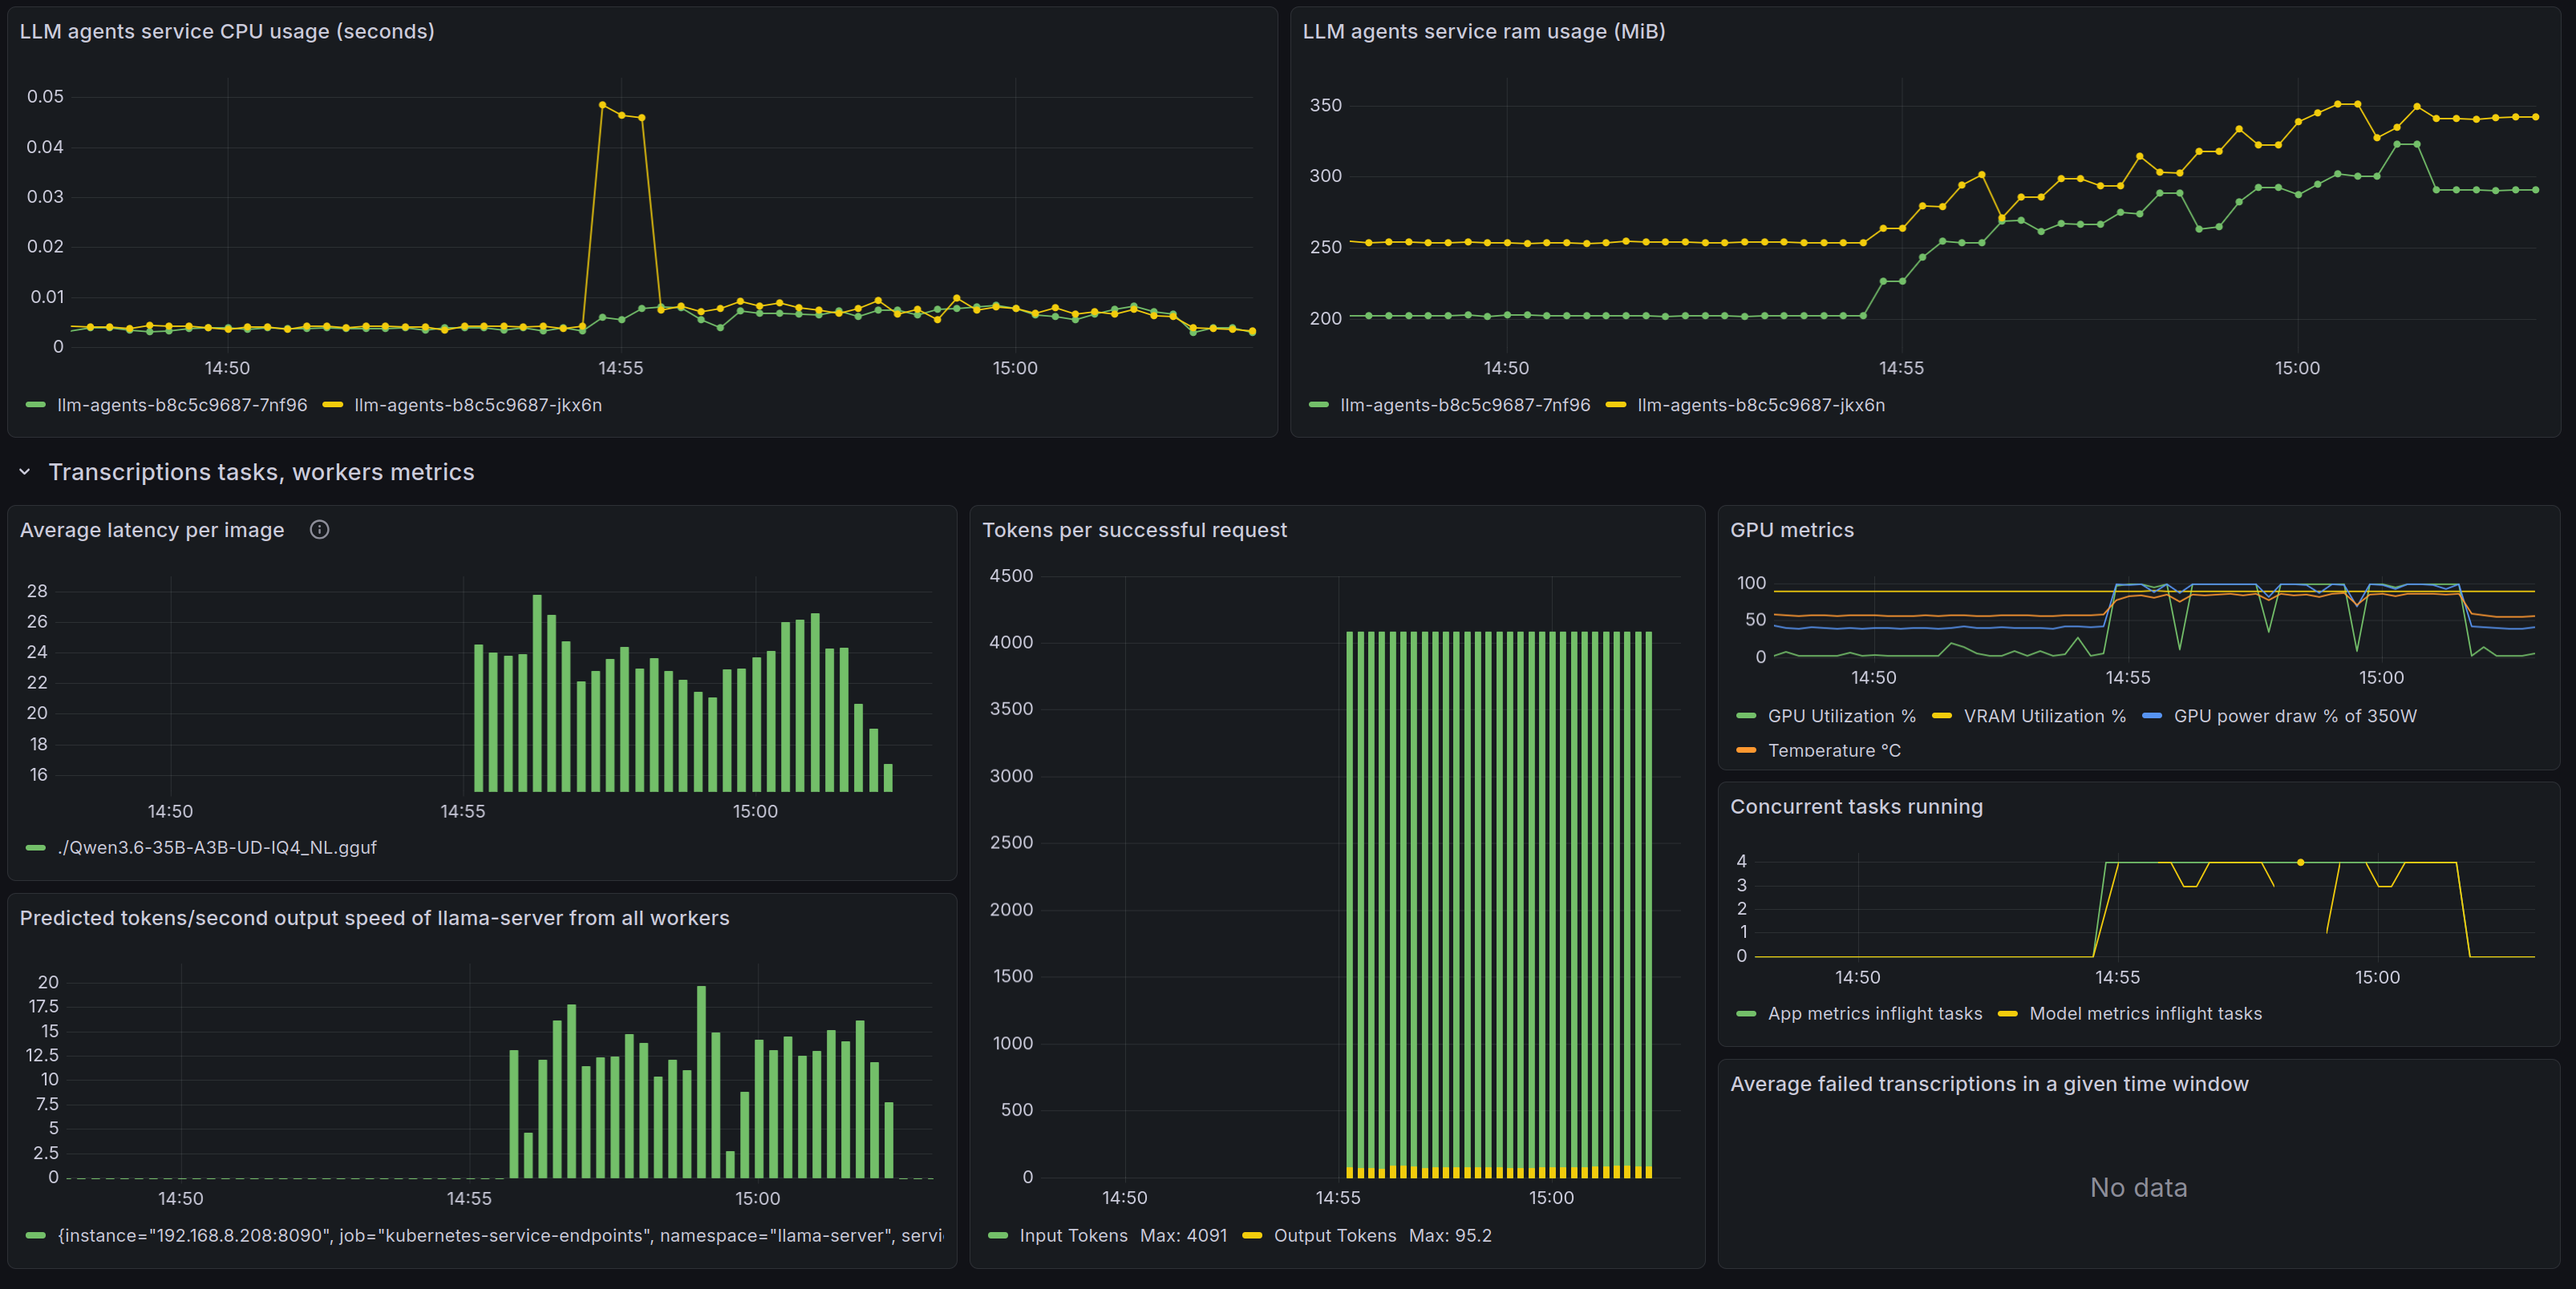
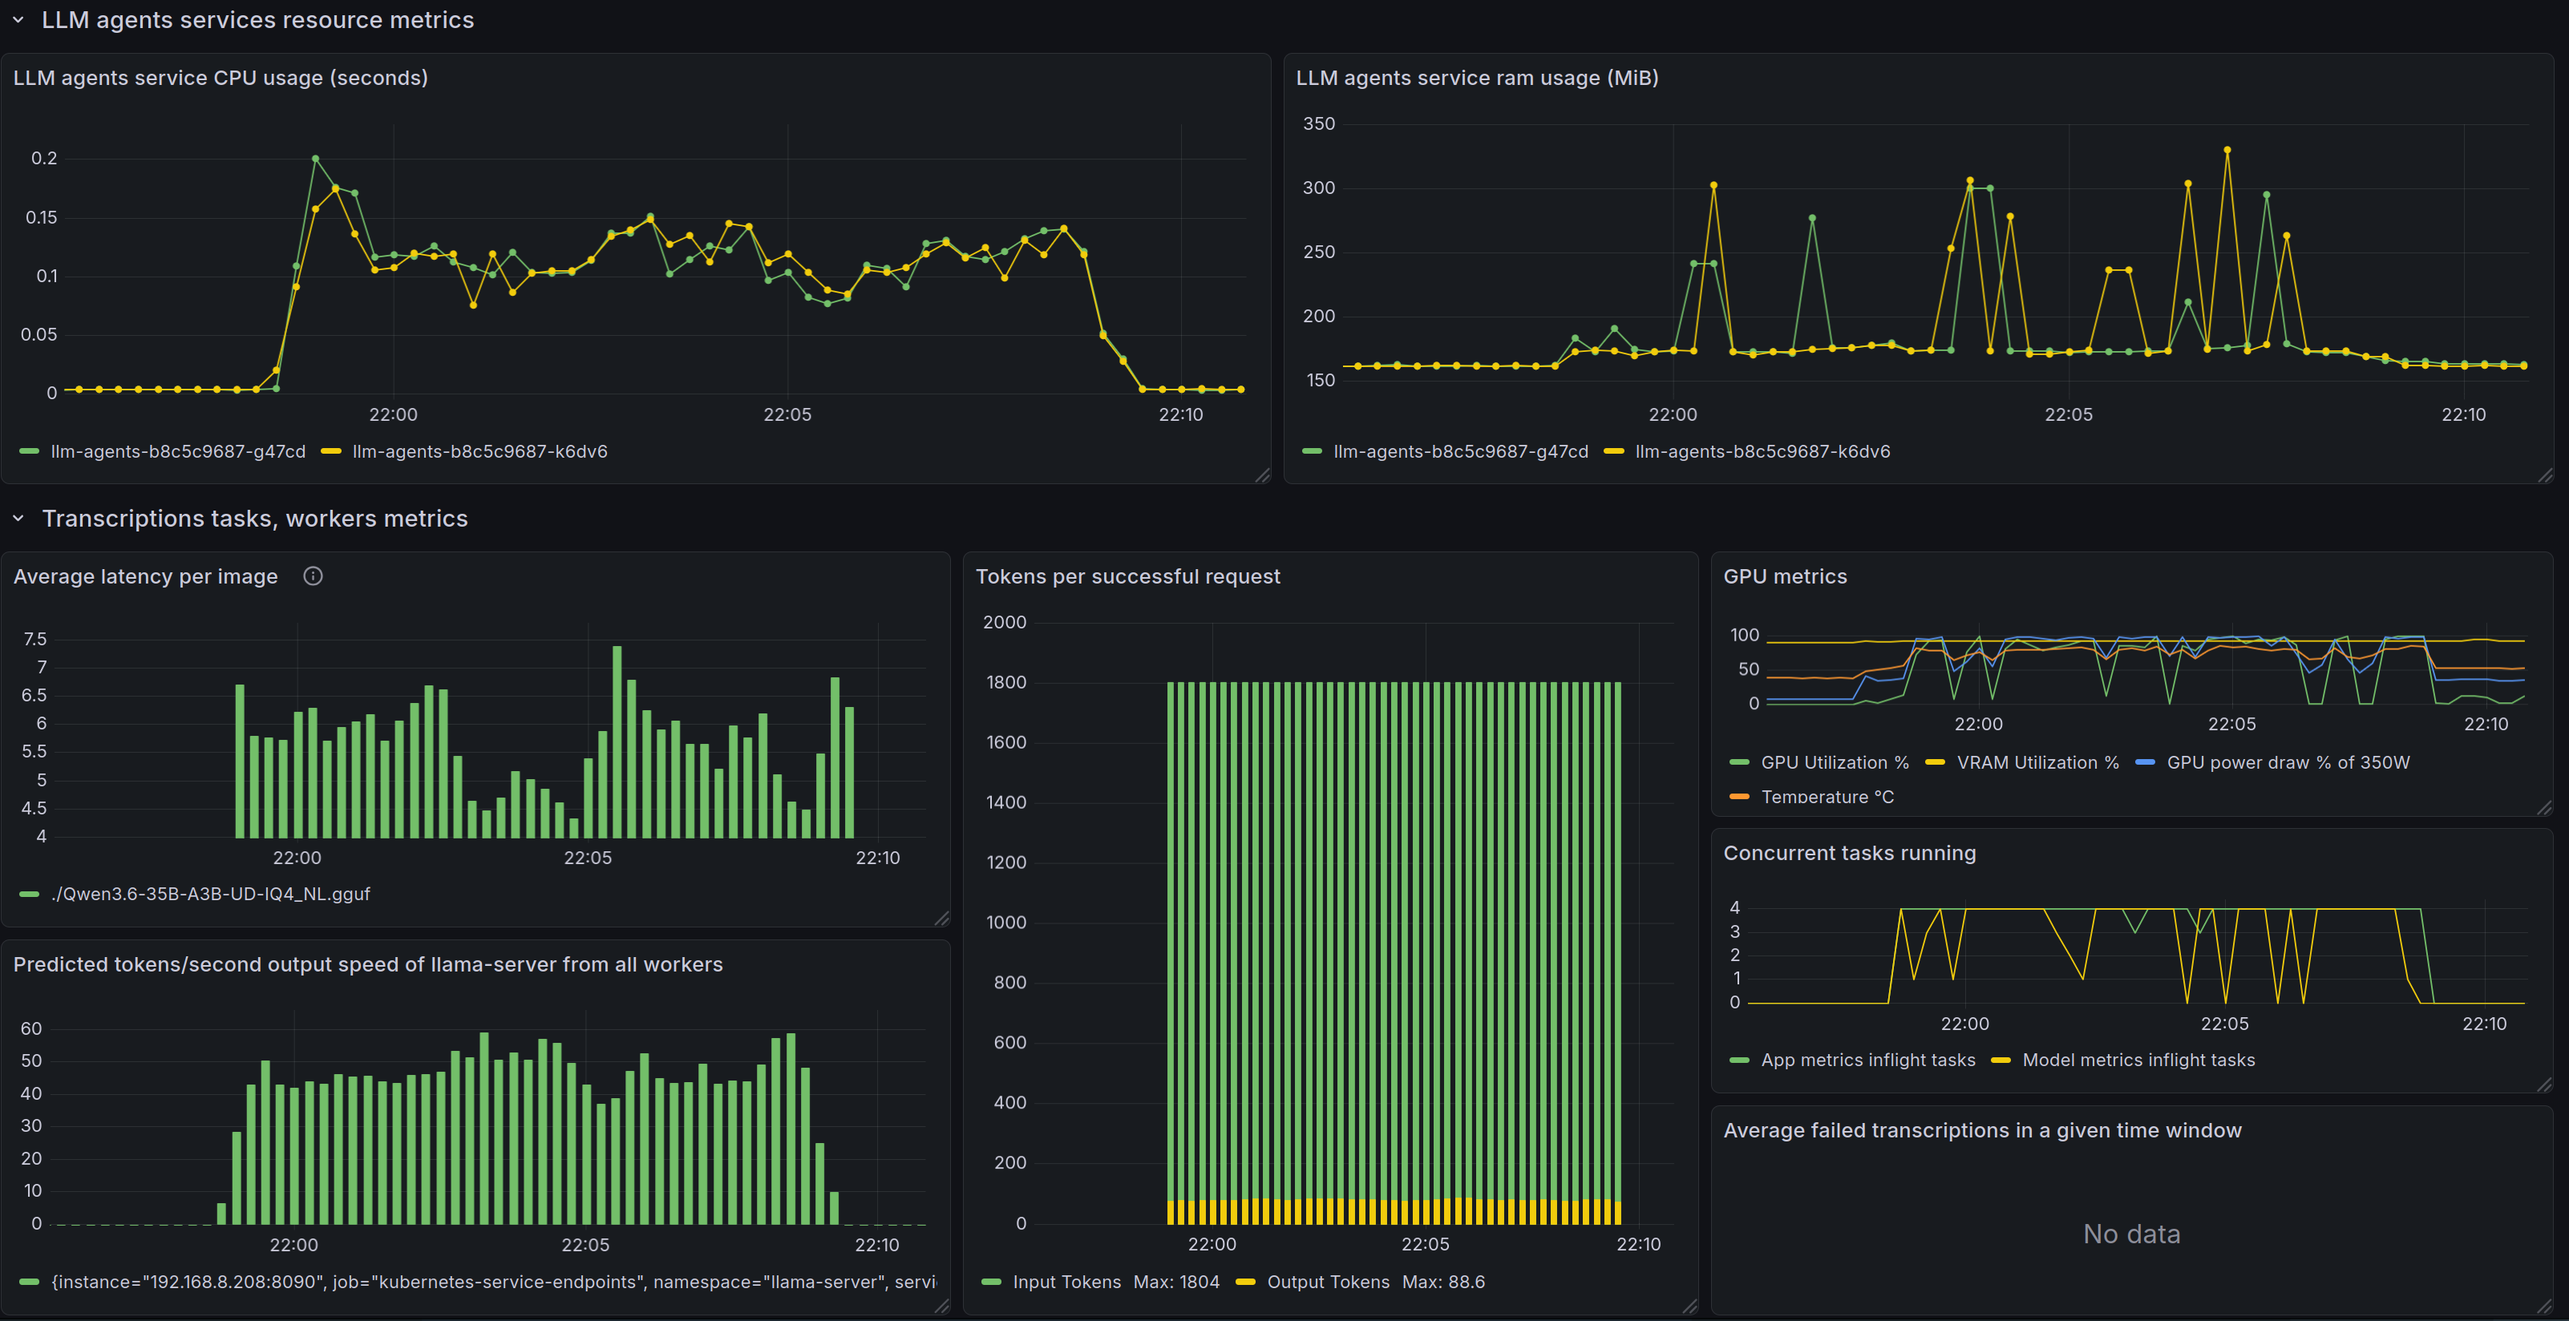
updating readme with new metrics info

diff --git a/README.md b/README.md
@@ -9,14 +9,14 @@ to deploy and run inside a kubernetes cluster similar to:
 ## Transcriptions agent
 
 Transcribes handwritten or printed pages into text with a self-hosted vision LLM.
-Upload a zip of photos, get back one text file — 70 pages in ~8 minutes instead of
+Upload a zip of photos, get back one text file — 70 pages in ~3 minutes instead of
 weeks by hand. Built with FastAPI, pydantic-ai, a fair Postgres-backed task queue,
 Garage S3 and llama-server, preferably running on Kubernetes.
 
 **Highlights**
 - [Fair task queue on PostgreSQL](#why-postgresql): `SKIP LOCKED` + per-user [longest idle scheduling](#licq-and-fifo-workers), no extra broker
 - [Exactly-once completion](#exactly-once-completion) across concurrent workers via advisory locks
-- [Measured](#performance): 70 handwritten pages in ~8 min on one GPU, app at ~0.005 CPU / ~300 MiB
+- [Measured](#performance): 70 handwritten pages in ~3 min on one GPU, ~150–350 MiB per pod
 
 
 ### C2 Diagram
@@ -67,7 +67,7 @@ sequenceDiagram
     break invalid or expired JWT
         API-->>User: 401
     end
-    API->>API: validate zip (≤100 images, ≤40 MiB each, real JPEG/PNG)
+    API->>API: validate zip (≤100 images, ≤40 MiB each, real JPEG/PNG/MPO)
     break invalid zip
         API-->>User: 400 (ZIP-01 / 02 / 03 / 04 / 05 / 06)
     end
@@ -222,12 +222,14 @@ takes to complete with retry, so no currently 'running' tasks are reclaimed`
 The image below shows the metrics of the transcriptions agent
 while running. The submitted zip file is 212 MiB,
 has 70 jpeg images taken with an iPhone 17 around 3-4 MiB each.
-It is done in ~ 8 minutes, each image taking 20-30 seconds depending
-on the image. 4 concurrent workers, 2 FIFO and 2 LICQ are running.
-![alt text](./nvidia_metrics_helper_app/metrics.png)
-- the GPU is saturated, and the bottleneck is prefill of ~4k image tokens per page, not the app
-- the app itself uses about 0.005 CPU cores and ~300 MiB per pod
-- about 9 images/min overall throughput
+Each page is downscaled with Pillow before transcription, which cuts the
+vision tokens per page and gives a >2x speedup.
+It is done in ~3 minutes, each image taking ~6-7 seconds.
+4 concurrent workers, 2 FIFO and 2 LICQ are running.
+![transcription agent metrics while running](./nvidia_metrics_helper_app/metrics.png)
+- the GPU is saturated, and the bottleneck is prefill of ~1.8k image tokens per page (down from ~4k before downscaling), not the app
+- the speedup's expense is memory and CPU: Pillow decodes each page into full-size raw pixels (much larger than the ~3-4 MiB compressed file) before downscaling, so CPU is higher and RAM spikes to ~350 MiB during concurrent decodes, then falls back to a ~150 MiB baseline
+- ~23 images/min for a single zip; with 5 contexts running at once (350 images) ~35 images/min, ~10 min total
 
 
 ### API
@@ -242,5 +244,5 @@ on the image. 4 concurrent workers, 2 FIFO and 2 LICQ are running.
 
 ### Future work
 rate limiting / quotas, Stripe, presigned garage downloads,
-alembic migrations, a retention job, image-downscaling,
+alembic migrations, a retention job,
 tests, completion_func failure to not fail all tasks.
